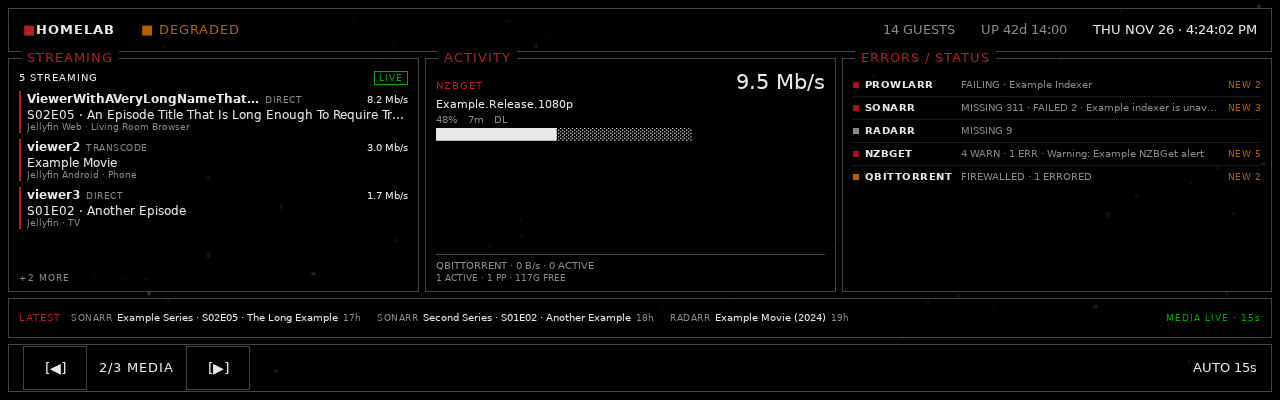
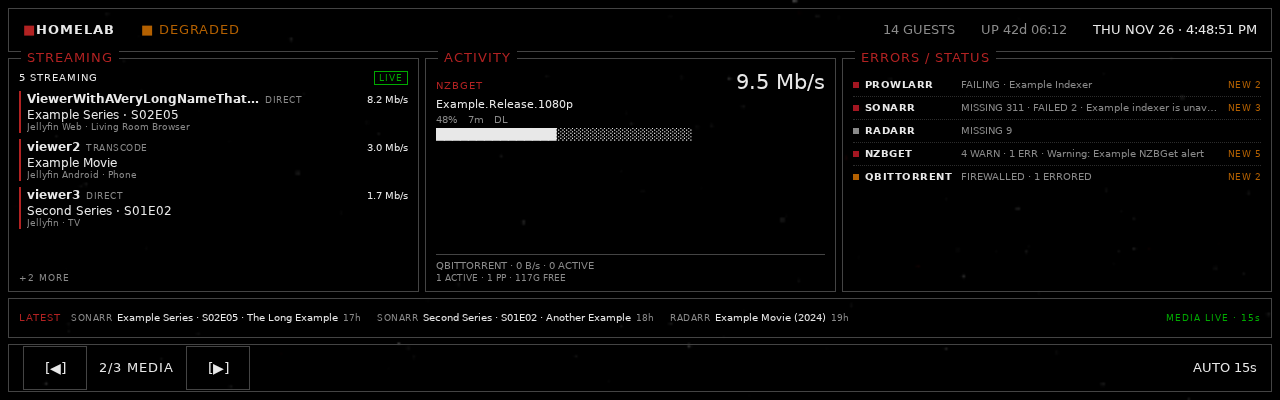
Show series titles for active streams

diff --git a/src/kiosk.html b/src/kiosk.html
@@ -641,9 +641,9 @@
     streaming: {
       state: "STUB", count: 3, more: 0,
       sessions: [
-        { user: "VIEWER ONE", method: "DIRECT", rate_text: "8.2 Mb/s", title: "S02E05 · The Long Example", client: "Web · Chrome" },
+        { user: "VIEWER ONE", method: "DIRECT", rate_text: "8.2 Mb/s", title: "Example Series · S02E05", client: "Web · Chrome" },
         { user: "VIEWER TWO", method: "TRANSCODE", rate_text: "3.1 Mb/s", title: "Example Movie", client: "Phone · Jellyfin" },
-        { user: "VIEWER THREE", method: "DIRECT", rate_text: "1.7 Mb/s", title: "S01E02 · Another Example", client: "TV · Android" }
+        { user: "VIEWER THREE", method: "DIRECT", rate_text: "1.7 Mb/s", title: "Second Series · S01E02", client: "TV · Android" }
       ]
     },
     activity: {

diff --git a/src/media.py b/src/media.py
@@ -837,11 +837,11 @@ class MediaService:
                 code = f"S{season:02d}E{episode:02d}"
             name = playing.get("Name") or playing.get("SeriesName") or "Untitled"
             series = playing.get("SeriesName") or ""
-            title = " · ".join(
-                part for part in (code, name) if part
-            ) if code else text(name, 90)
-            if series and not code:
-                title = text(f"{series} · {name}", 90)
+            if series:
+                title = " · ".join(part for part in (series, code) if part)
+            else:
+                title = name
+            title = text(title, 90)
             client = " · ".join(
                 part
                 for part in (
@@ -1324,7 +1324,7 @@ class MediaService:
                 "method": "DIRECT",
                 "rate_bps": 8_200_000,
                 "rate_text": "8.2 Mb/s",
-                "title": "S02E05 · The Long Example",
+                "title": "Example Series · S02E05",
                 "series": "Example Series",
                 "client": "Web · Chrome",
             },
@@ -1342,7 +1342,7 @@ class MediaService:
                 "method": "DIRECT",
                 "rate_bps": 1_700_000,
                 "rate_text": "1.7 Mb/s",
-                "title": "S01E02 · Another Example",
+                "title": "Second Series · S01E02",
                 "series": "Second Series",
                 "client": "TV · Android",
             },

diff --git a/tests/media_check.py b/tests/media_check.py
@@ -49,8 +49,14 @@ def main():
         assert len(snap["streaming"]["sessions"]) == 3
         assert snap["streaming"]["more"] == 2
         assert snap["streaming"]["state"] == "LIVE"
-        assert all(len(row["user"]) <= 32 for row in snap["streaming"]["sessions"])
-        assert all(len(row["title"]) <= 96 for row in snap["streaming"]["sessions"])
+        sessions = snap["streaming"]["sessions"]
+        assert all(len(row["user"]) <= 32 for row in sessions)
+        assert all(len(row["title"]) <= 96 for row in sessions)
+        assert [row["title"] for row in sessions] == [
+            "Example Series · S02E05",
+            "Example Movie",
+            "Second Series · S01E02",
+        ]
 
         assert snap["activity"]["primary"] == "nzbget"
         nzb = snap["activity"]["sources"]["nzbget"]

diff --git a/docs/media-screen-spec.md b/docs/media-screen-spec.md
@@ -40,7 +40,7 @@ The user chose option 2 but wants it on one screen, so the two-page stream/downl
 
 | Region | Content |
 | --- | --- |
-| `STREAMING` (left) | `N STREAMING`; up to three active Jellyfin sessions as `USER · DIRECT/TRANSCODE · bitrate` then `SxxExx or TITLE`, then client. `+N MORE` when there are more. |
+| `STREAMING` (left) | `N STREAMING`; up to three active Jellyfin sessions as `USER · DIRECT/TRANSCODE · bitrate` then `SERIES · SxxExx` (or the movie title), then client. `+N MORE` when there are more. |
 | `ACTIVITY` (middle) | One adaptive panel: compare qBittorrent `dl_info_speed` with the NZBGet 64-bit `DownloadRate`; the higher one is primary and shows rate, top item, progress bar and ETA/status (`PP` for post-processing). The lower one is a dim secondary line with its own rate and queue/disk summary. If both are zero, show `IDLE`. |
 | `ERRORS / STATUS` (right) | One row per source — Prowlarr, Sonarr, Radarr, NZBGet, qBittorrent — with a current-state badge and a `NEW n` counter. Prowlarr: health warnings/errors and failing indexers. Sonarr/Radarr: `wanted/missing` total, failed queue items and `health` warnings. NZBGet: `systemhealth` alerts plus new `WARNING`/`ERROR` log entries seen since the last tick. qBittorrent: errored torrent count and non-nominal `connection_status`. A `new since 00:00` line makes the accumulation explicit. |
 | `LATEST` (bottom strip) | Three most recent Sonarr/Radarr import events: `S/M · TITLE · relative time`. Falls back to downloader completion history when arr data is unavailable. |
